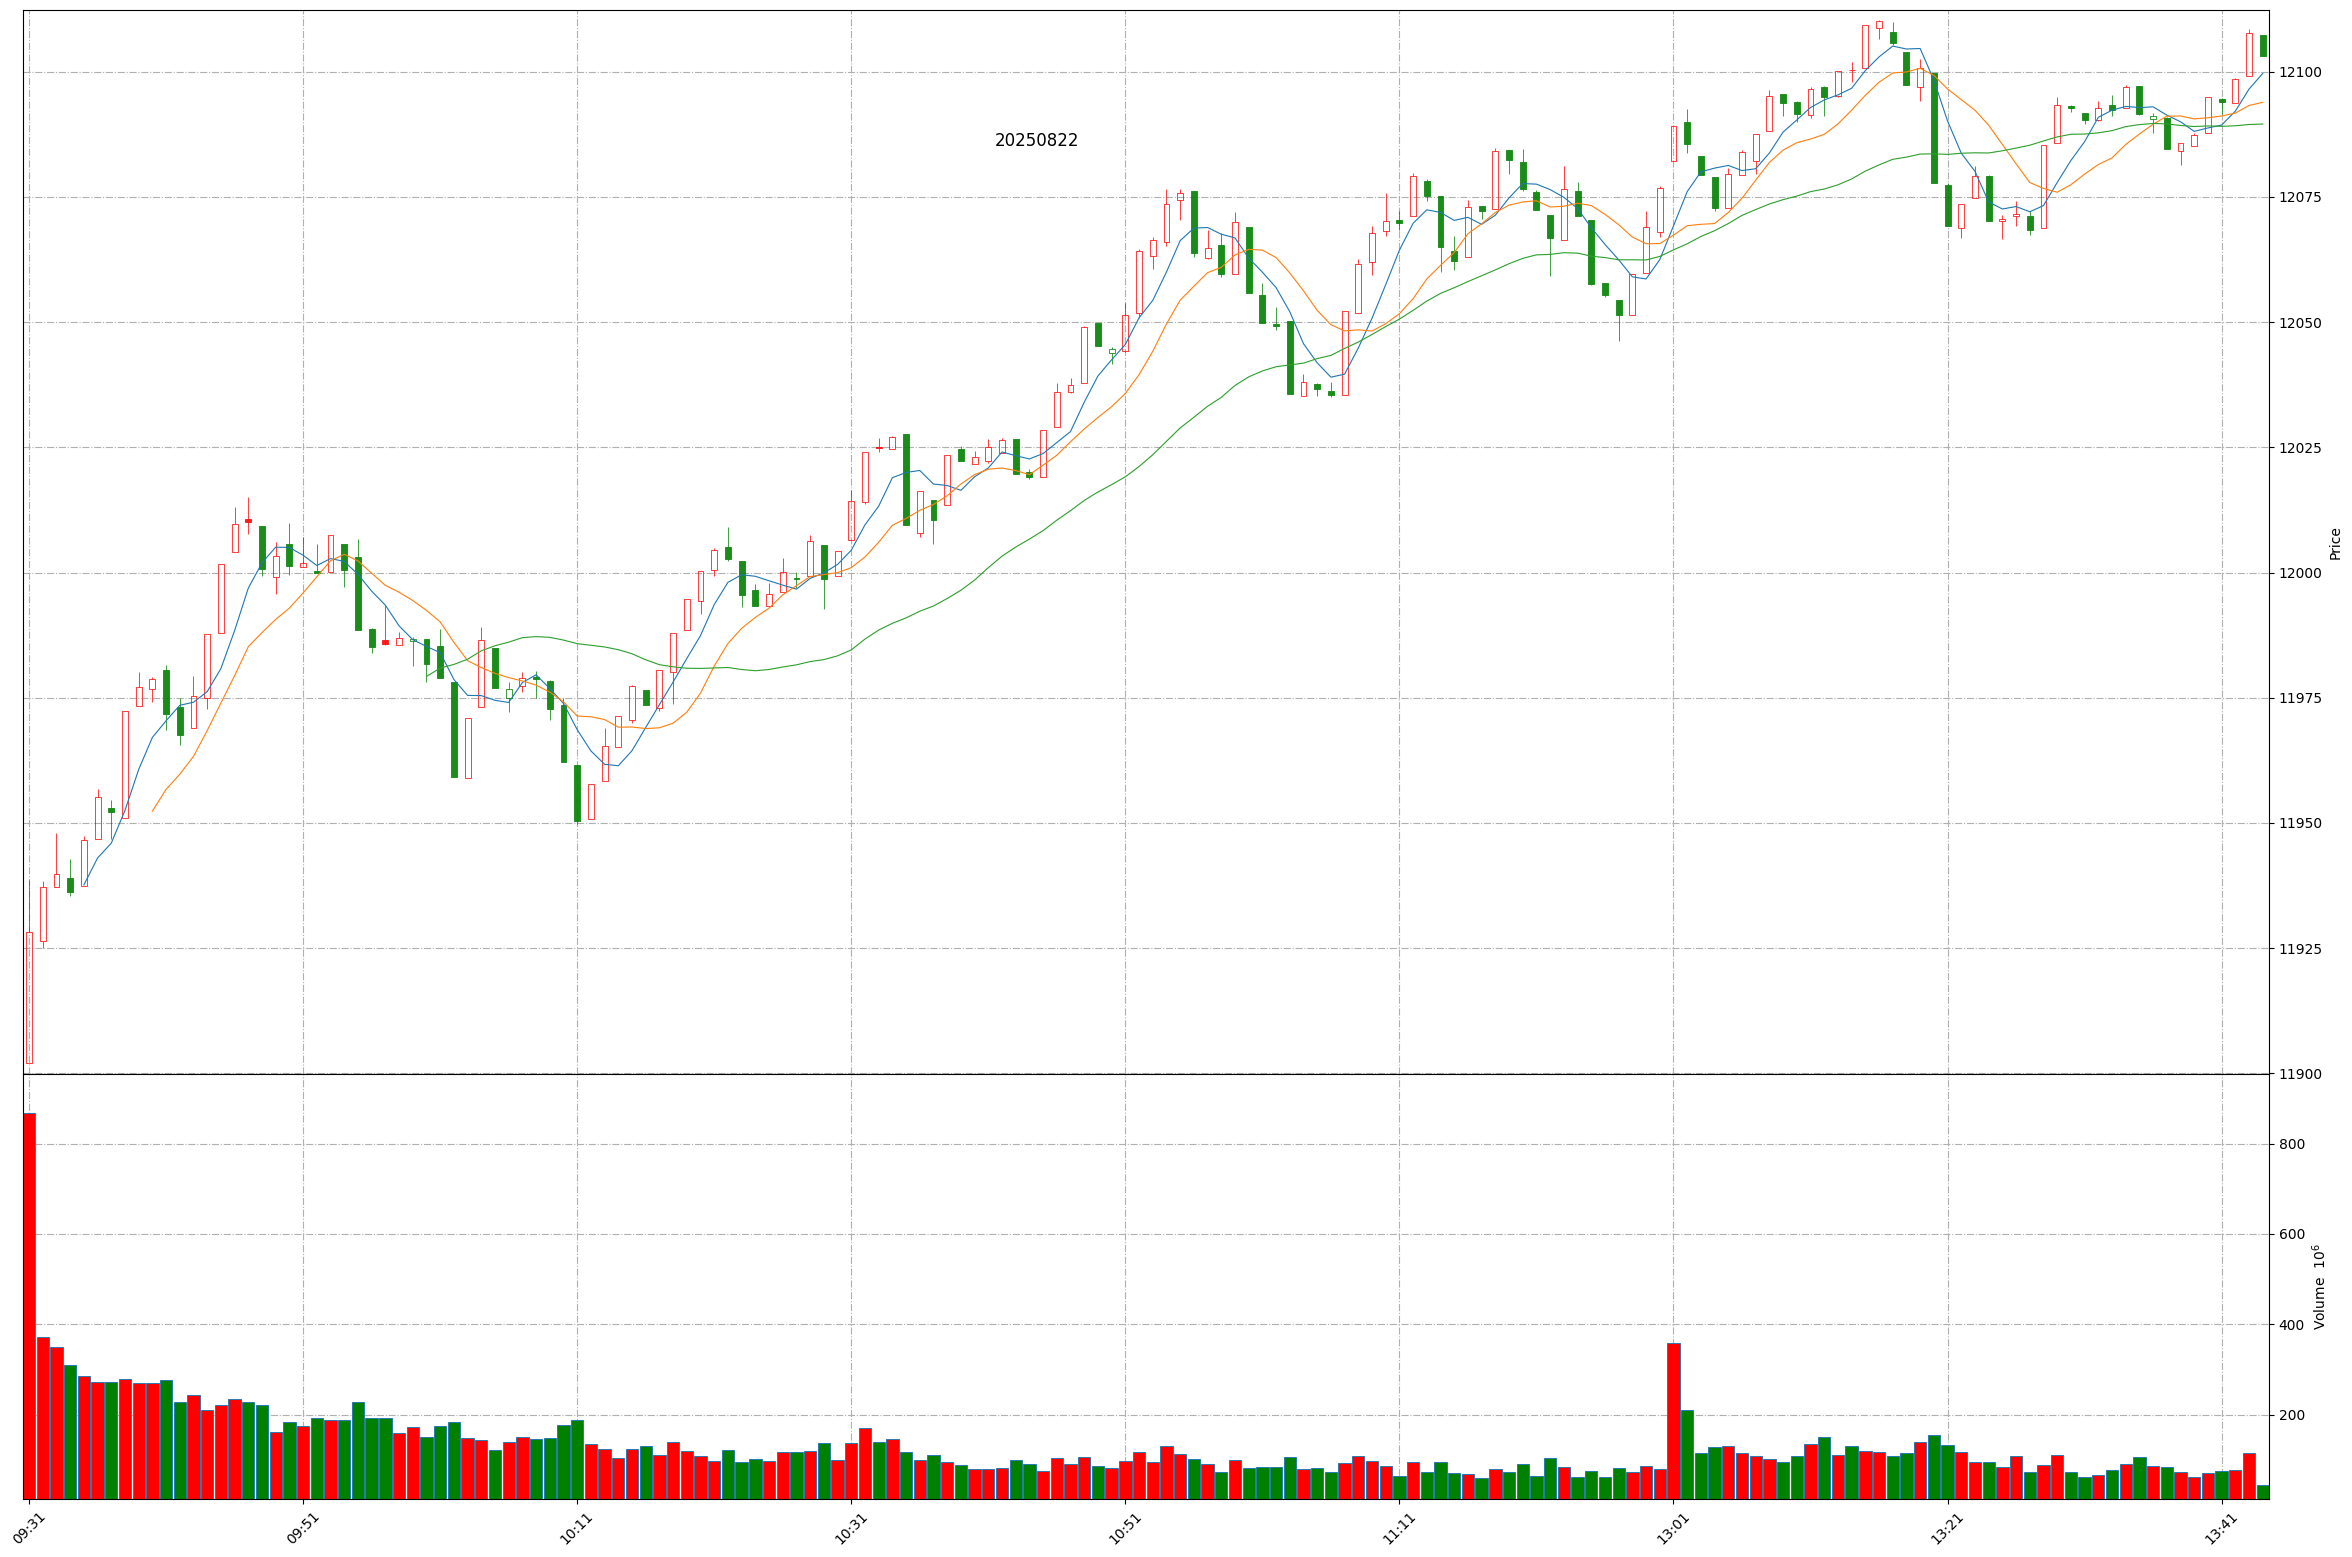
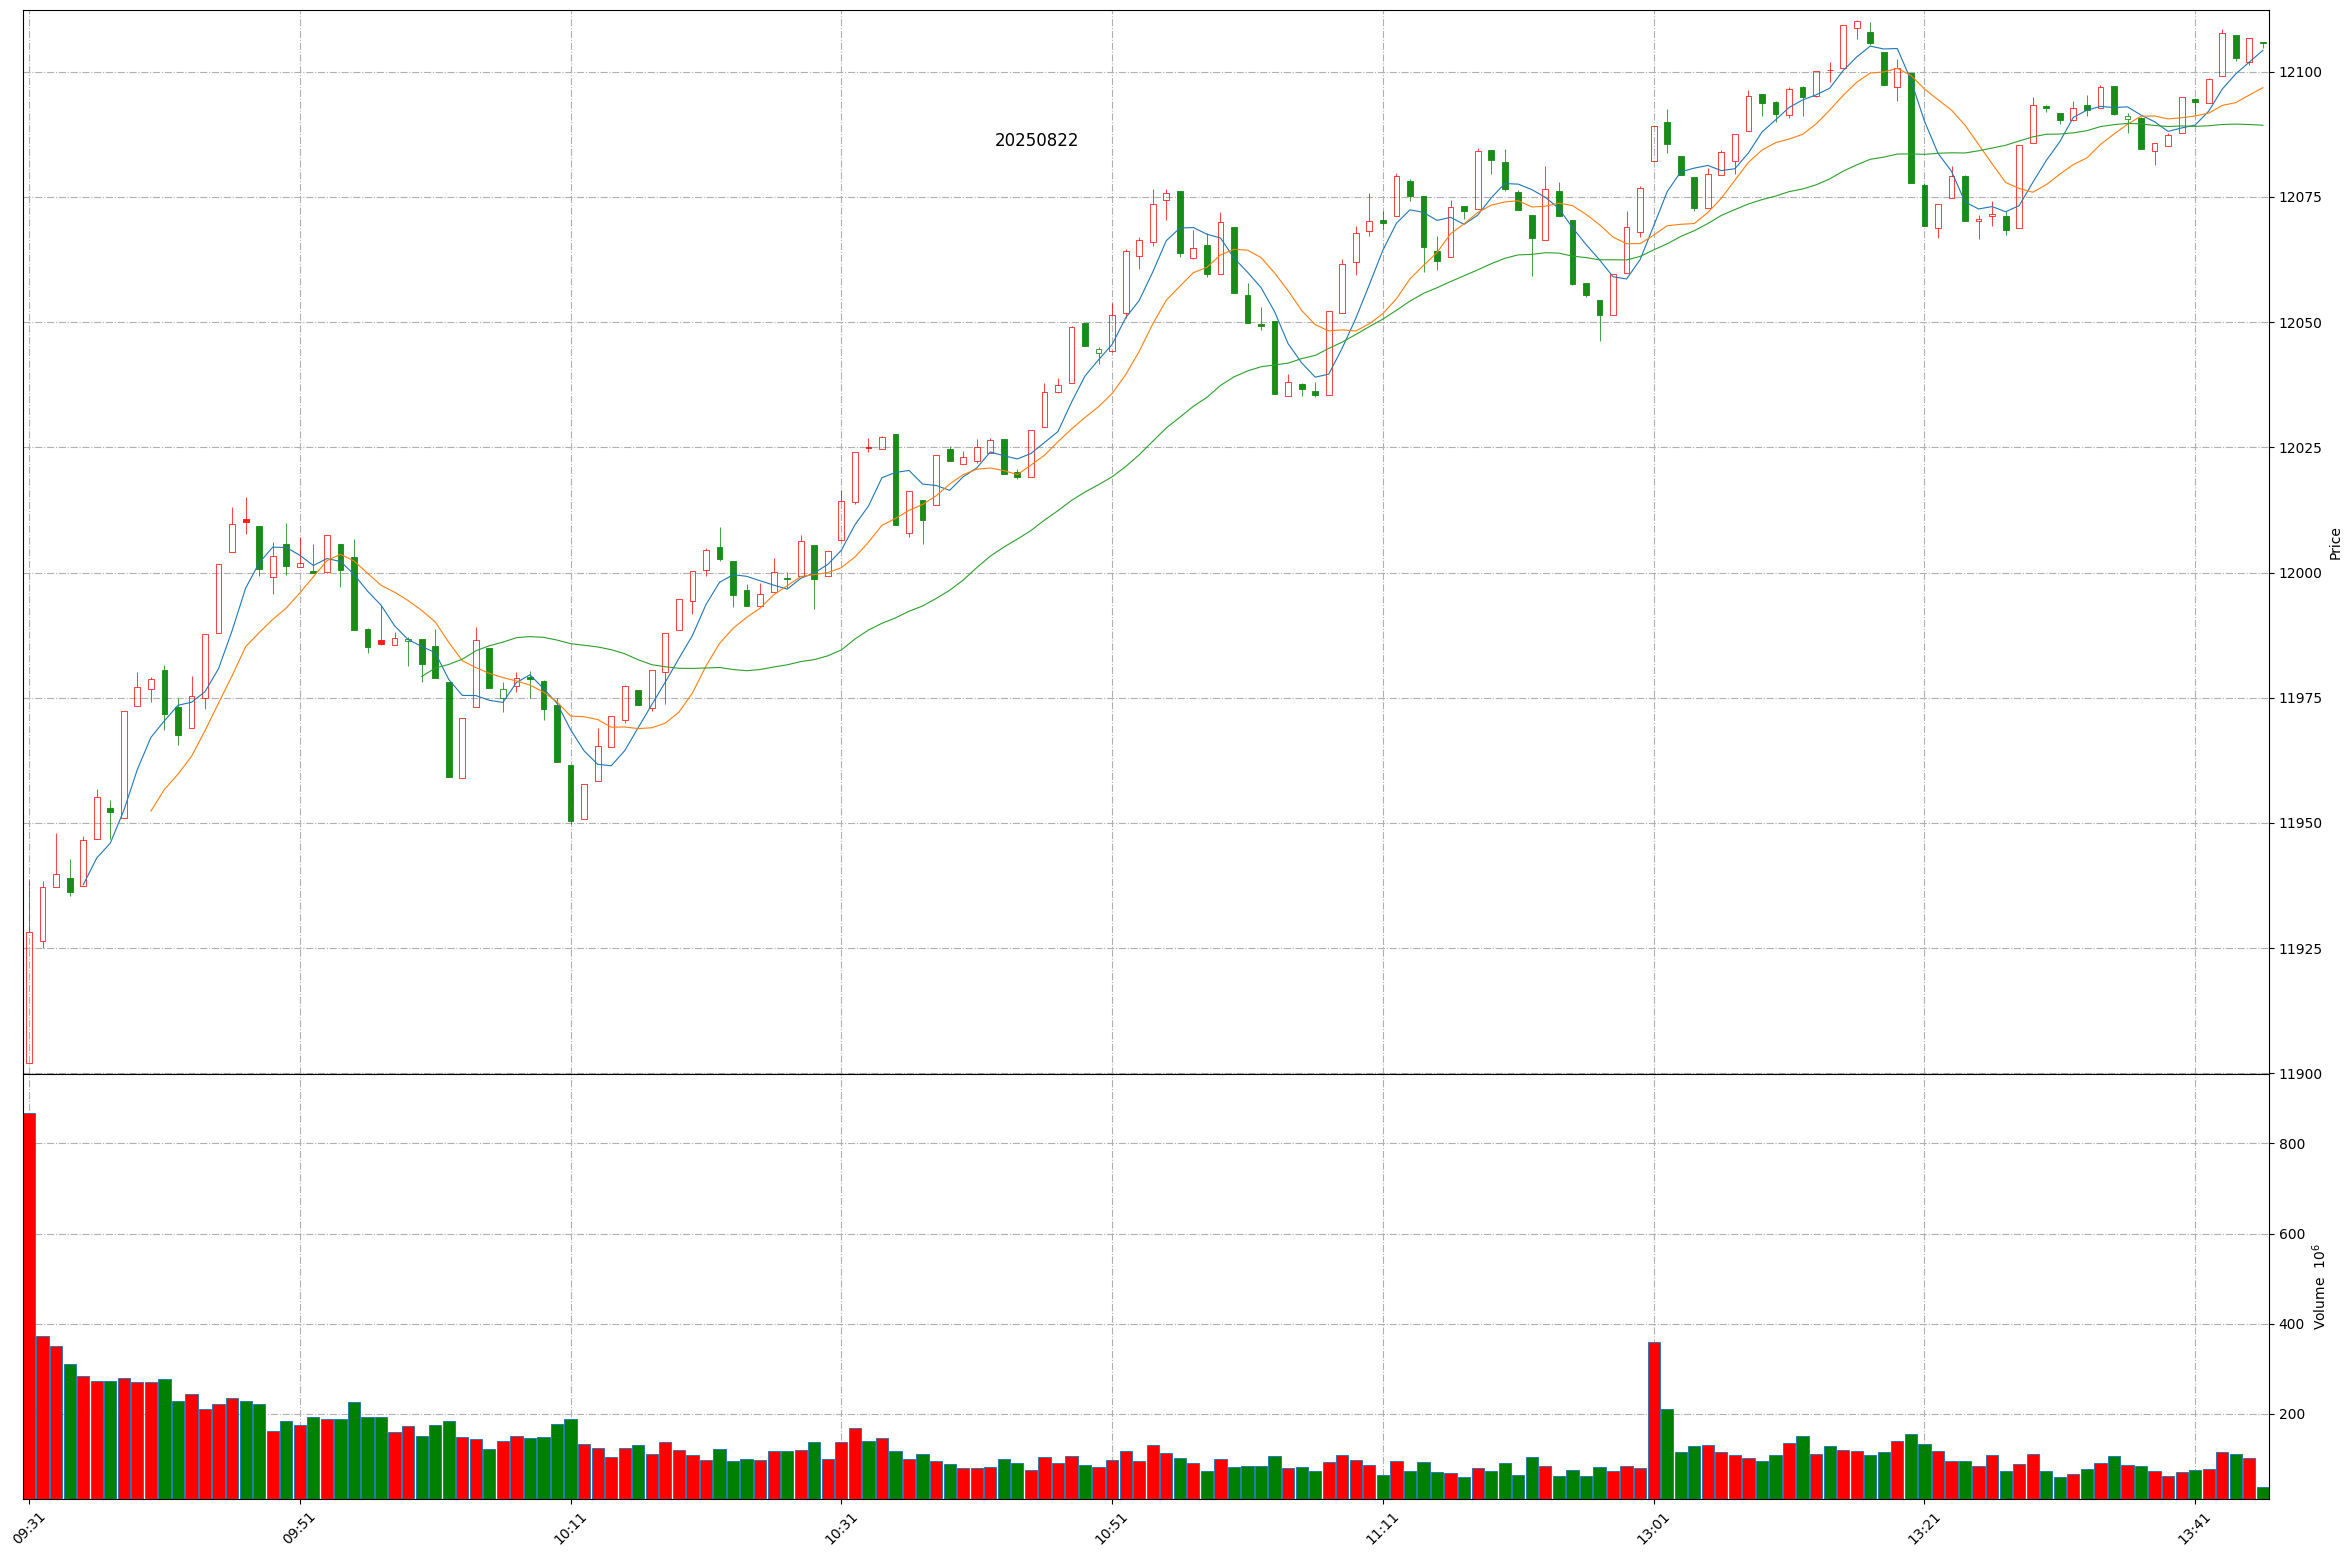
Github action update at 2025-08-22 13:45:34.

diff --git a/README.md b/README.md
@@ -1,11 +1,11 @@
 
 # Daily-A-share-market-quotes 每日 A 股指数（5min 更新）- 20250822
 
-### 上证指数 20250822 13:43
+### 上证指数 20250822 13:45
 ![](./fig/2025/8/20250822-sh000001.png)
 
-### 深证成指 20250822 13:43
+### 深证成指 20250822 13:45
 ![](./fig/2025/8/20250822-sz399001.png)
 
-### 北证50 20250822 13:43
+### 北证50 20250822 13:45
 ![](./fig/2025/8/20250822-bj899050.png)
